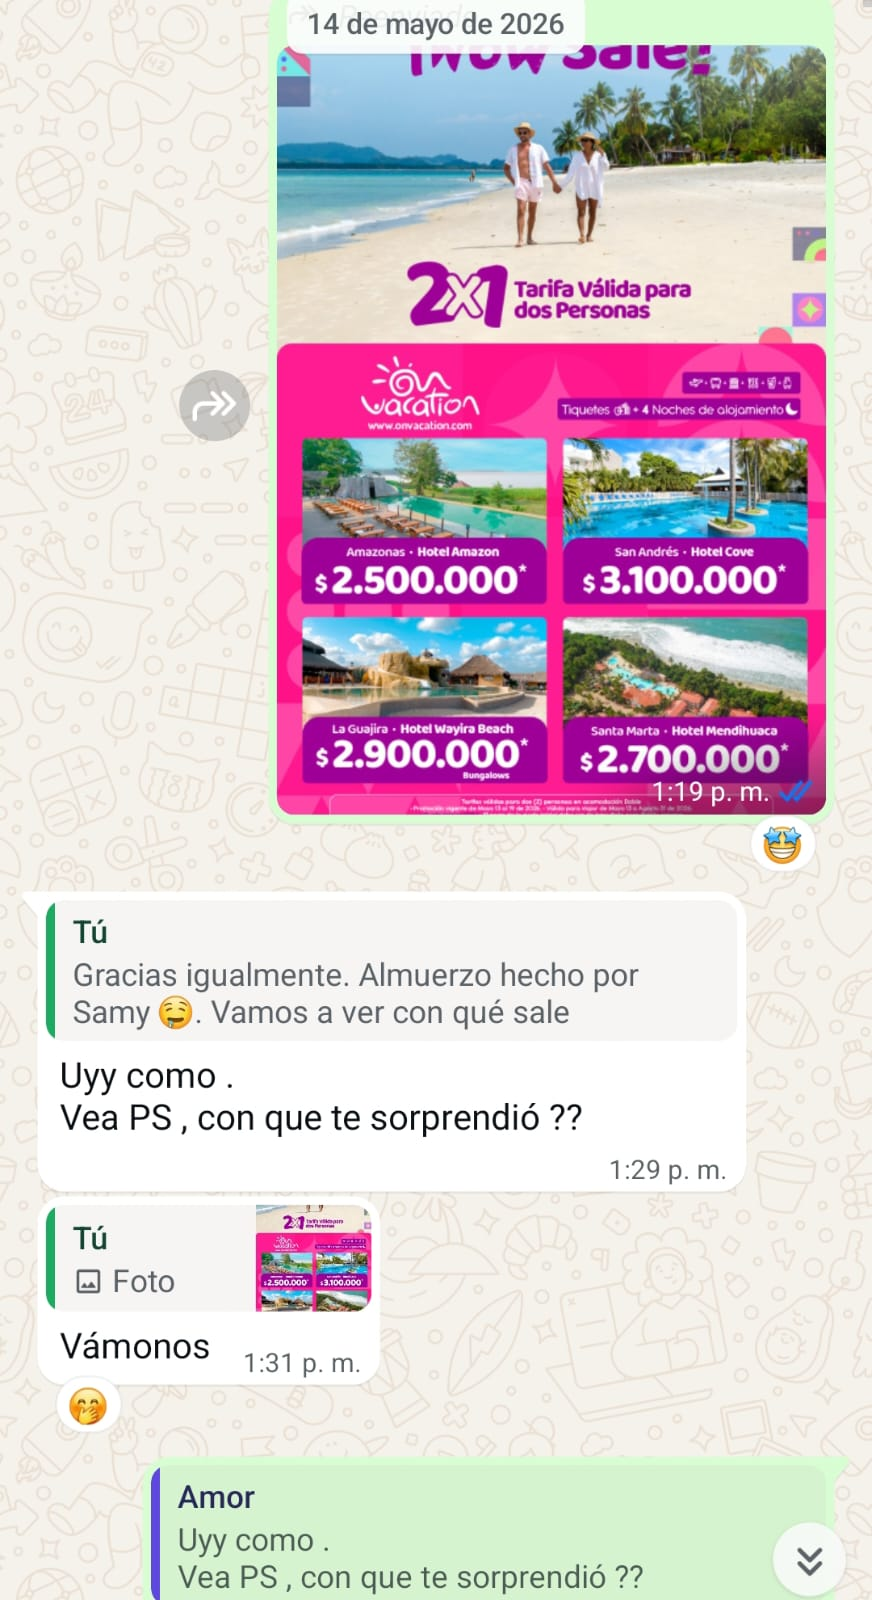
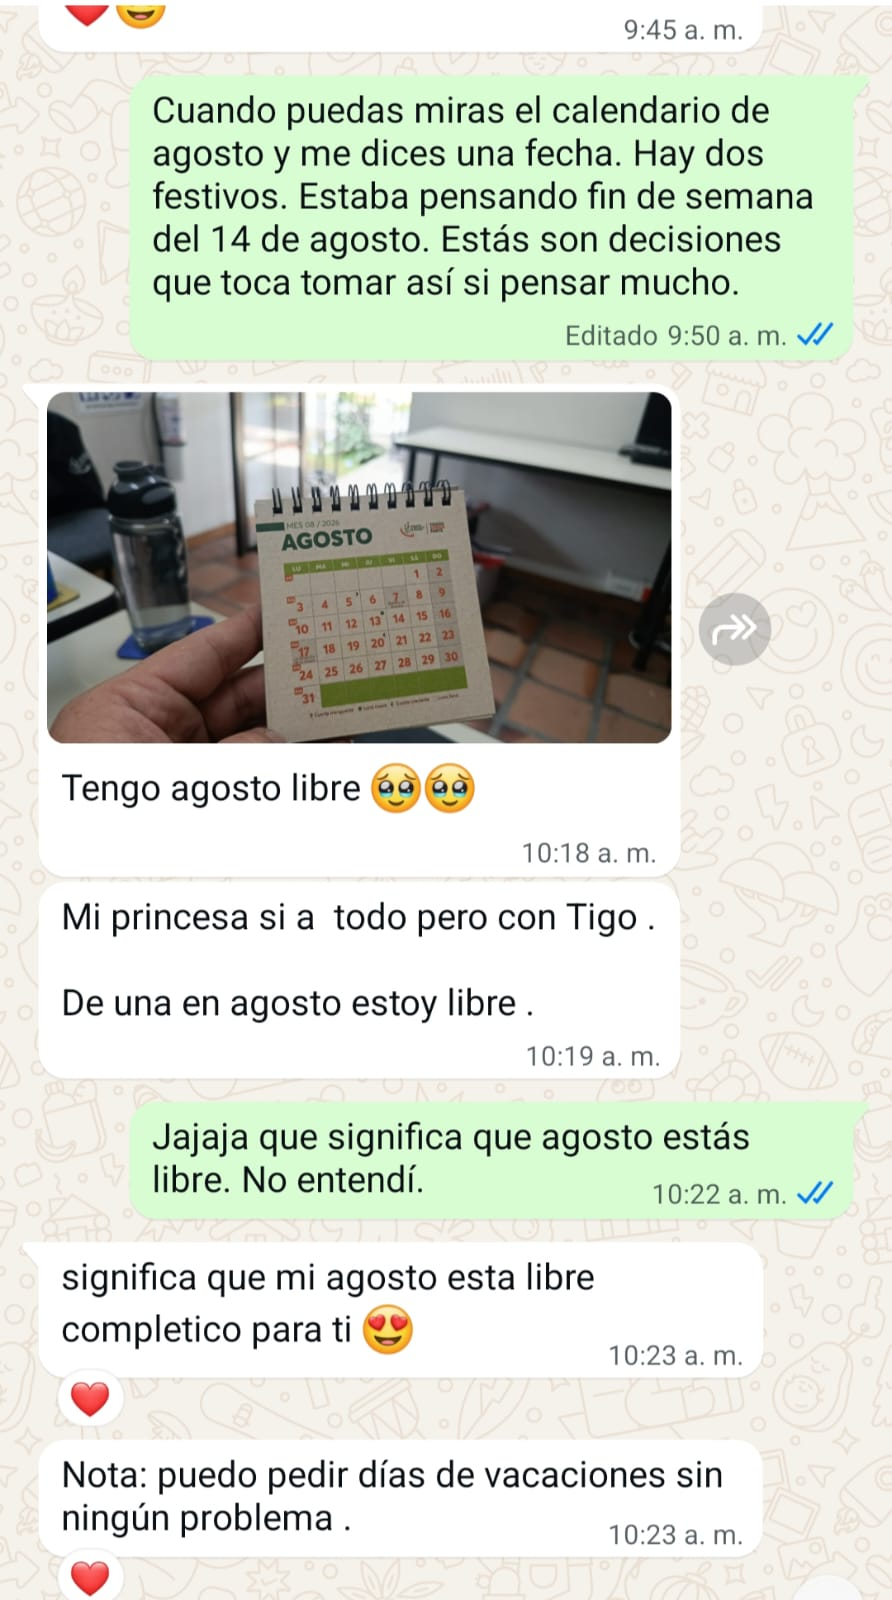
Ajuste carrucel

diff --git a/index.html b/index.html
@@ -94,10 +94,10 @@
         </div>
       </div>
       <div class="col-lg-6" data-aos="fade-left" data-aos-duration="1000" data-aos-delay="150">
-        <h2 class="section-title">Antes de volver a encontrarnos...</h2>
+        <h2 class="section-title">Al principio...</h2>
         <!-- EDITAR TEXTO AQUÍ -->
         <p class="section-text">
-         Al principio solo compartíamos algunos saludos y momentos de la vida universitaria, sin imaginar lo que el futuro tenía preparado para nosotros.
+         Solo compartíamos algunos saludos y momentos de la vida universitaria, sin imaginar lo que el futuro tenía preparado para nosotros.
         </p>
         <p class="section-text">
          Tiempo después vivimos meses muy especiales, llenos de risas, conversaciones interminables, canciones, bailes y momentos que aún recuerdo con mucho cariño.
@@ -108,7 +108,7 @@
         <!-- EDITAR TEXTO AQUÍ -->
         <p class="section-text">
           Son recuerdos hermosos que nunca olvidé y que siempre han ocupado un lugar especial en mi corazón.
-         Aunque nuestras vidas siguieron por caminos distintos,  aquellos momentos nunca dejaron de acompañarme, como una pequeña llama que permaneció encendida con el tiempo, esperando el día en que la vida volviera a encontrarnos.
+         Aunque nuestras vidas siguieron por caminos distintos,  aquellos momentos nunca dejaron de acompañarme, como una llama encendida, esperando el día para volver a encontrarnos.
         </p>
         
         <p class="section-text section-text-emphasis">
@@ -160,50 +160,65 @@
   ============================================================= -->
   <section id="seccion-5" class="story-section story-section-dark">
   <div class="container text-center" data-aos="fade-up">
-    <h2 class="section-title">Algunas fotos ...</h2>
+    <h2 class="section-title">Nuestras citas</h2>
     <!-- EDITAR TEXTO AQUÍ -->
     
   </div>
 
   <!-- Carrusel premium -->
   <div class="container mt-5" data-aos="zoom-in">
-    <div id="guajiraCarousel" class="carousel slide premium-carousel" data-bs-ride="carousel">
-      <div class="carousel-indicators">
-        <button type="button" data-bs-target="#guajiraCarousel" data-bs-slide-to="0" class="active" aria-current="true" aria-label="Foto 1"></button>
-        <button type="button" data-bs-target="#guajiraCarousel" data-bs-slide-to="1" aria-label="Foto 2"></button>
-        <button type="button" data-bs-target="#guajiraCarousel" data-bs-slide-to="2" aria-label="Foto 3"></button>
-        <button type="button" data-bs-target="#guajiraCarousel" data-bs-slide-to="3" aria-label="Foto 4"></button>
-        <button type="button" data-bs-target="#guajiraCarousel" data-bs-slide-to="4" aria-label="Foto 5"></button>
-
-      </div>
-      <div class="carousel-inner">
-        <!-- EDITAR/REEMPLAZAR FOTOS DE LA GUAJIRA AQUÍ -->
-        <div class="carousel-item active">
-          <img src="assets/images/guajira_01.jpg" class="d-block w-100" alt="La Guajira, foto 1" loading="lazy">
-        </div>
-        <div class="carousel-item">
-          <img src="assets/images/guajira_02.jpg" class="d-block w-100" alt="La Guajira, foto 2" loading="lazy">
-        </div>
-        <div class="carousel-item">
-          <img src="assets/images/guajira_03.jpg" class="d-block w-100" alt="La Guajira, foto 3" loading="lazy">
-        </div>
-        <div class="carousel-item">
-          <img src="assets/images/guajira_04.jpg" class="d-block w-100" alt="La Guajira, foto 4" loading="lazy">
-        </div>
-        <div class="carousel-item">
-          <img src="assets/images/guajira_05.jpg" class="d-block w-100" alt="La Guajira, foto 5" loading="lazy">
-        </div>
-      </div>
-      <button class="carousel-control-prev" type="button" data-bs-target="#guajiraCarousel" data-bs-slide="prev">
-        <span class="carousel-control-prev-icon" aria-hidden="true"></span>
-        <span class="visually-hidden">Anterior</span>
-      </button>
-      <button class="carousel-control-next" type="button" data-bs-target="#guajiraCarousel" data-bs-slide="next">
-        <span class="carousel-control-next-icon" aria-hidden="true"></span>
-        <span class="visually-hidden">Siguiente</span>
-      </button>
+  <div id="guajiraCarouselVertical" class="carousel slide premium-carousel premium-carousel-vertical" data-bs-ride="carousel">
+    <div class="carousel-indicators">
+      <button type="button" data-bs-target="#guajiraCarouselVertical" data-bs-slide-to="0" class="active" aria-current="true" aria-label="Foto 1"></button>
+      <button type="button" data-bs-target="#guajiraCarouselVertical" data-bs-slide-to="1" aria-label="Foto 2"></button>
+      <button type="button" data-bs-target="#guajiraCarouselVertical" data-bs-slide-to="2" aria-label="Foto 3"></button>
+      <button type="button" data-bs-target="#guajiraCarouselVertical" data-bs-slide-to="3" aria-label="Foto 4"></button>
+      <button type="button" data-bs-target="#guajiraCarouselVertical" data-bs-slide-to="4" aria-label="Foto 5"></button>
+      <button type="button" data-bs-target="#guajiraCarouselVertical" data-bs-slide-to="5" aria-label="Foto 6"></button>
+      <button type="button" data-bs-target="#guajiraCarouselVertical" data-bs-slide-to="6" aria-label="Foto 7"></button>
+      <button type="button" data-bs-target="#guajiraCarouselVertical" data-bs-slide-to="7" aria-label="Foto 8"></button>
+      <button type="button" data-bs-target="#guajiraCarouselVertical" data-bs-slide-to="8" aria-label="Foto 9"></button>
+      <button type="button" data-bs-target="#guajiraCarouselVertical" data-bs-slide-to="9" aria-label="Foto 10"></button>
     </div>
+    <div class="carousel-inner">
+      <div class="carousel-item active">
+        <img src="assets/images/foto1.jpeg" class="d-block w-100" alt="Foto vertical 1" loading="lazy">
+      </div>
+      <div class="carousel-item">
+        <img src="assets/images/foto2.jpeg" class="d-block w-100" alt="Foto vertical 2" loading="lazy">
+      </div>
+      <div class="carousel-item">
+        <img src="assets/images/foto3.jpeg" class="d-block w-100" alt="Foto vertical 3" loading="lazy">
+      </div>
+         <div class="carousel-item">
+        <img src="assets/images/foto4.jpeg" class="d-block w-100" alt="Foto vertical 3" loading="lazy">
+      </div>
+         <div class="carousel-item">
+        <img src="assets/images/foto5.jpeg" class="d-block w-100" alt="Foto vertical 3" loading="lazy">
+      </div>
+         <div class="carousel-item">
+        <img src="assets/images/foto6.jpeg" class="d-block w-100" alt="Foto vertical 3" loading="lazy">
+      </div>
+         <div class="carousel-item">
+        <img src="assets/images/foto7.jpeg" class="d-block w-100" alt="Foto vertical 3" loading="lazy">
+      </div>
+      <div class="carousel-item">
+        <img src="assets/images/foto8.jpeg" class="d-block w-100" alt="Foto vertical 4" loading="lazy">
+      </div>
+      <div class="carousel-item">
+        <img src="assets/images/foto9.jpeg" class="d-block w-100" alt="Foto vertical 4" loading="lazy">
+      </div>
+    </div>
+    <button class="carousel-control-prev" type="button" data-bs-target="#guajiraCarouselVertical" data-bs-slide="prev">
+      <span class="carousel-control-prev-icon" aria-hidden="true"></span>
+      <span class="visually-hidden">Anterior</span>
+    </button>
+    <button class="carousel-control-next" type="button" data-bs-target="#guajiraCarouselVertical" data-bs-slide="next">
+      <span class="carousel-control-next-icon" aria-hidden="true"></span>
+      <span class="visually-hidden">Siguiente</span>
+    </button>
   </div>
+</div>
   <!-- SUBSECCIÓN — LAS CONVERSACIONES -->
   <div class="container mt-5 pt-5">
     <p class="section-kicker text-center">Mensajitos lindos</p>
@@ -221,12 +236,11 @@
       <div class="col-lg-8 text-center" data-aos="fade-up">
         <!-- EDITAR TEXTO AQUÍ -->
         <p class="section-text">
-          Me encanta hablar contigo. Tu inteligencia, tu curiosidad y tu forma de ver el mundo hacen que cualquier conversación sea interesante.
-          Me gusta como expresas tus ideas, tus emociones y todo aquello que te apasiona.
-          Contigo siempre hay algo nuevo de qué hablar, algo nuevo que aprender y una nueva razón para sonreír.
+          Me encanta hablar contigo, cuando me cuentas tus experiencias y cuando hablas de lo que te apasiona. Me gusta cuando confías en mí, abres tu corazón y expresas tus sentimientos y emociones.
+           Tus mensajes me alegran la vida.🥰
         </p>
         <p class="section-text section-text-emphasis">
-          Sin darme cuenta, te convertiste en mi mensaje favorito del día.
+           Te convertiste en mi mensaje favorito del día.
         </p>
       </div>
     </div>
@@ -238,10 +252,10 @@
 ============================================================= -->
 <section id="seccion-5" class="story-section story-section-dark">
   <div class="container text-center" data-aos="fade-up">
-    <h2 class="section-title">La Guajira, nuestro primer viaje</h2>
+    <h2 class="section-title">La Guajira</h2>
     <!-- EDITAR TEXTO AQUÍ -->
     <p class="section-text mx-auto" style="max-width:720px;">
-      La Guajira fue una experiencia que llegó de una manera inesperada y terminó convirtiéndose en un viaje muy especial para nosotros. Fueron días de disfrutar, conocer, conversar y simplemente dejarnos llevar por cada momento.
+      Fue una experiencia que llegó de una manera inesperada y terminó convirtiéndose en un viaje muy especial para nosotros. Fueron días de disfrutar, conocer, conversar y dejarnos llevar por cada momento.
     </p>
     <p class="section-text section-text-emphasis mx-auto" style="max-width:720px;">
     </p>
@@ -330,9 +344,9 @@
           <span class="date-highlight-text">de agosto de 2026</span>
         </div>
        
-        <p class="section-text">No podia existir un lugar  mas perfecto para vivir este momento contigo. Estábamos frente al mar, viendo un atardecer hermoso,
-          sin saber que ese instante iba a convertirse en uno de los recuerdos más importantes de nuestra historia.</p>
-        <p class="section-text section-text-emphasis">Gracias por ser tan especial conmigo, por regalarme momentos tan hermosos que llevare por siempre en mi  ❤</p>
+        <p class="section-text">No podia existir un lugar  mas perfecto para vivir este momento contigo. Estábamos frente al mar, viendo el atardecer,
+          sin saber que ese instante iba a convertirse en uno de los recuerdos más importantes de mi vida.</p>
+        <p class="section-text section-text-emphasis">Gracias por ser tan especial conmigo, por regalarme momentos tan hermosos que llevare por siempre en mi corazón</p>
 
         </p>
       </div>
@@ -427,7 +441,7 @@
        <div class="col-6 col-md-4 col-lg-3" data-aos="zoom-in" data-aos-delay="100">
         <div class="flip-card">
           <div class="flip-card-inner">
-            <div class="flip-card-front"><span class="flip-emoji">❤</span><p>Lo apasionado que eres</p></div>
+            <div class="flip-card-front"><span class="flip-emoji">❤</span><p>cómo nos entendemos</p></div>
             <div class="flip-card-back"><p>Y la química tan increíble que tenemos cuando estamos a solas 😈.</p></div>
           </div>
         </div>
@@ -454,8 +468,8 @@
       <div class="col-6 col-md-4 col-lg-3" data-aos="zoom-in">
         <div class="flip-card">
           <div class="flip-card-inner">
-            <div class="flip-card-front"><span class="flip-emoji">❤</span><p>cómo nos entendemos</p></div>
-            <div class="flip-card-back"><p>Con solo una mirada o un gesto.</p></div>
+            <div class="flip-card-front"><span class="flip-emoji">❤</span><p>Lo apacionado que eres</p></div>
+            <div class="flip-card-back"><p>Esa energía y motivación con la que haces todo.</p></div>
           </div>
         </div>
       </div>
@@ -464,7 +478,7 @@
         <div class="flip-card">
           <div class="flip-card-inner">
             <div class="flip-card-front"><span class="flip-emoji">❤</span><p>Cuando reimos de tonterias</p></div>
-            <div class="flip-card-back"><p>Demuestra lo bien que lapasamos juntos.</p></div>
+            <div class="flip-card-back"><p>Demuestra lo bien que la pasamos juntos.</p></div>
           </div>
         </div>
       </div>
@@ -481,8 +495,8 @@
       <div class="col-6 col-md-4 col-lg-3" data-aos="zoom-in" data-aos-delay="100">
         <div class="flip-card">
           <div class="flip-card-inner">
-            <div class="flip-card-front"><span class="flip-emoji">❤</span><p>Que buscas refugio en mis brazos</p></div>
-            <div class="flip-card-back"><p>Cuando tuviste un mal día</p></div>
+            <div class="flip-card-front"><span class="flip-emoji">❤</span><p>Cuando buscas refugio en mis brazos</p></div>
+            <div class="flip-card-back"><p>Si tuviste un mal día</p></div>
           </div>
         </div>
       </div>
@@ -490,8 +504,8 @@
       <div class="col-6 col-md-4 col-lg-3" data-aos="zoom-in" data-aos-delay="150">
         <div class="flip-card">
           <div class="flip-card-inner">
-            <div class="flip-card-front"><span class="flip-emoji">❤</span><p>Que siempre cargas mi maleta</p></div>
-            <div class="flip-card-back"><p>Sin que tenga que pedirlo.</p></div>
+            <div class="flip-card-front"><span class="flip-emoji">❤</span><p>Cundo cargas mi maleta</p></div>
+            <div class="flip-card-back"><p>Aunque sepas que yo puedo con ella.</p></div>
           </div>
         </div>
       </div>
@@ -553,8 +567,7 @@
           <div class="collage-overlay">
             <h4>Samanta</h4>
             <p>
-              Una de las personas más importantes de mi vida. Me encanta ver cómo han construido una
-              relación basada en el respeto y la admiración. Poco a poco han encontrado
+              Una de las personas más importantes de mi vida. Me encanta ver cómo poco a poco han compartido
               temas en común, conversaciones interesantes y una conexión muy bonita.
             </p>
           </div>
@@ -613,11 +626,11 @@
 <section id="seccion-8" class="story-section">
   <div class="container text-center" data-aos="fade-up">
     <p class="section-kicker">Lo que viene</p>
-    <h2 class="section-title">Nuestros sueños</h2>
+    <h2 class="section-title">Algunos sueños</h2>
     <!-- EDITAR TEXTO AQUÍ -->
     <p class="section-text mx-auto mb-5" style="max-width:680px;">
-      Lo que más me emociona no son los meses que llevamos juntos.<br>
-      Es todo lo que todavía nos falta por vivir.
+     Amo lo que hemos vivido hasta ahora,<br>
+     pero me emociona más pensar en todo lo lindo que nos falta por vivir.
     </p>
   </div>
 
@@ -635,6 +648,9 @@
       </div>
       <div class="col-6 col-md-4 col-lg-3" data-aos="fade-up" data-aos-delay="150">
         <div class="dream-card"><span>📈</span><p> Crecer profesionalmente</p></div>
+      </div>
+       <div class="col-6 col-md-4 col-lg-3" data-aos="fade-up" data-aos-delay="150">
+        <div class="dream-card"><span>👩❤👨</span><p> Formar una familia</p></div>
       </div>
       <div class="col-6 col-md-4 col-lg-3" data-aos="fade-up" data-aos-delay="100">
         <div class="dream-card"><span>❤</span><p>Vivir una vida tranquila y con mucho amor</p></div>
@@ -692,11 +708,11 @@
           Gracias por quererme de la forma en que lo haces, por demostrarme lo que sientes, por escucharme, entenderme y hacerme sentir tan especial. 
           Valoro muchísimo cada detalle, cada conversación y cada momento que hemos compartido.</p>
         <p>No sé exactamente qué nos depare el futuro, pero sí sé que quiero seguir caminando a tu lado. Tengo muchísimo amor para darte y quiero que me enseñes
-         la mejor forma de amarte. Quiero que en mí encuentres siempre ese refugio y esa paz al final del día; que sepas que jamás vas a volver a estar solo, siempre estare
+         la mejor forma de amarte. Quiero que en mí encuentres siempre ese refugio y esa paz al final del día; que sepas que jamás vas a estar solo, siempre estare
           apoyándote en todo lo que necesites.</p>
         <p>Quiero que seamos un equipo, que trabajemos juntos para construir algo no perfecto, pero sí bonito y verdadero.
         Haré lo que esté en mis manos para que esto perdure en el tiempo porque eres muy importante para mi y no quiero volver a alejarme de tí.</p>
-        <p>Espero que celebremos este amor para siempre. Te quiero mucho </p>
+        <p>Espero que celebremos este amor para siempre. Te quiero mucho. </p>
       </div>
 
       <p class="letter-signature">Con todo mi corazón,<br>Pablo <span class="heart">❤</span> Viviana</p>

diff --git a/css/style.css b/css/style.css
@@ -522,6 +522,18 @@ img {
   object-fit: cover;
 }
 
+.premium-carousel-vertical {
+  max-width: 420px;
+  margin-left: auto;
+  margin-right: auto;
+}
+
+.premium-carousel-vertical .carousel-item img {
+  height: clamp(420px, 90vw, 680px);
+  aspect-ratio: 3 / 4;
+  object-fit: cover;
+}
+
 .premium-carousel .carousel-indicators [data-bs-target] {
   background-color: var(--color-gold);
   width: 10px;
